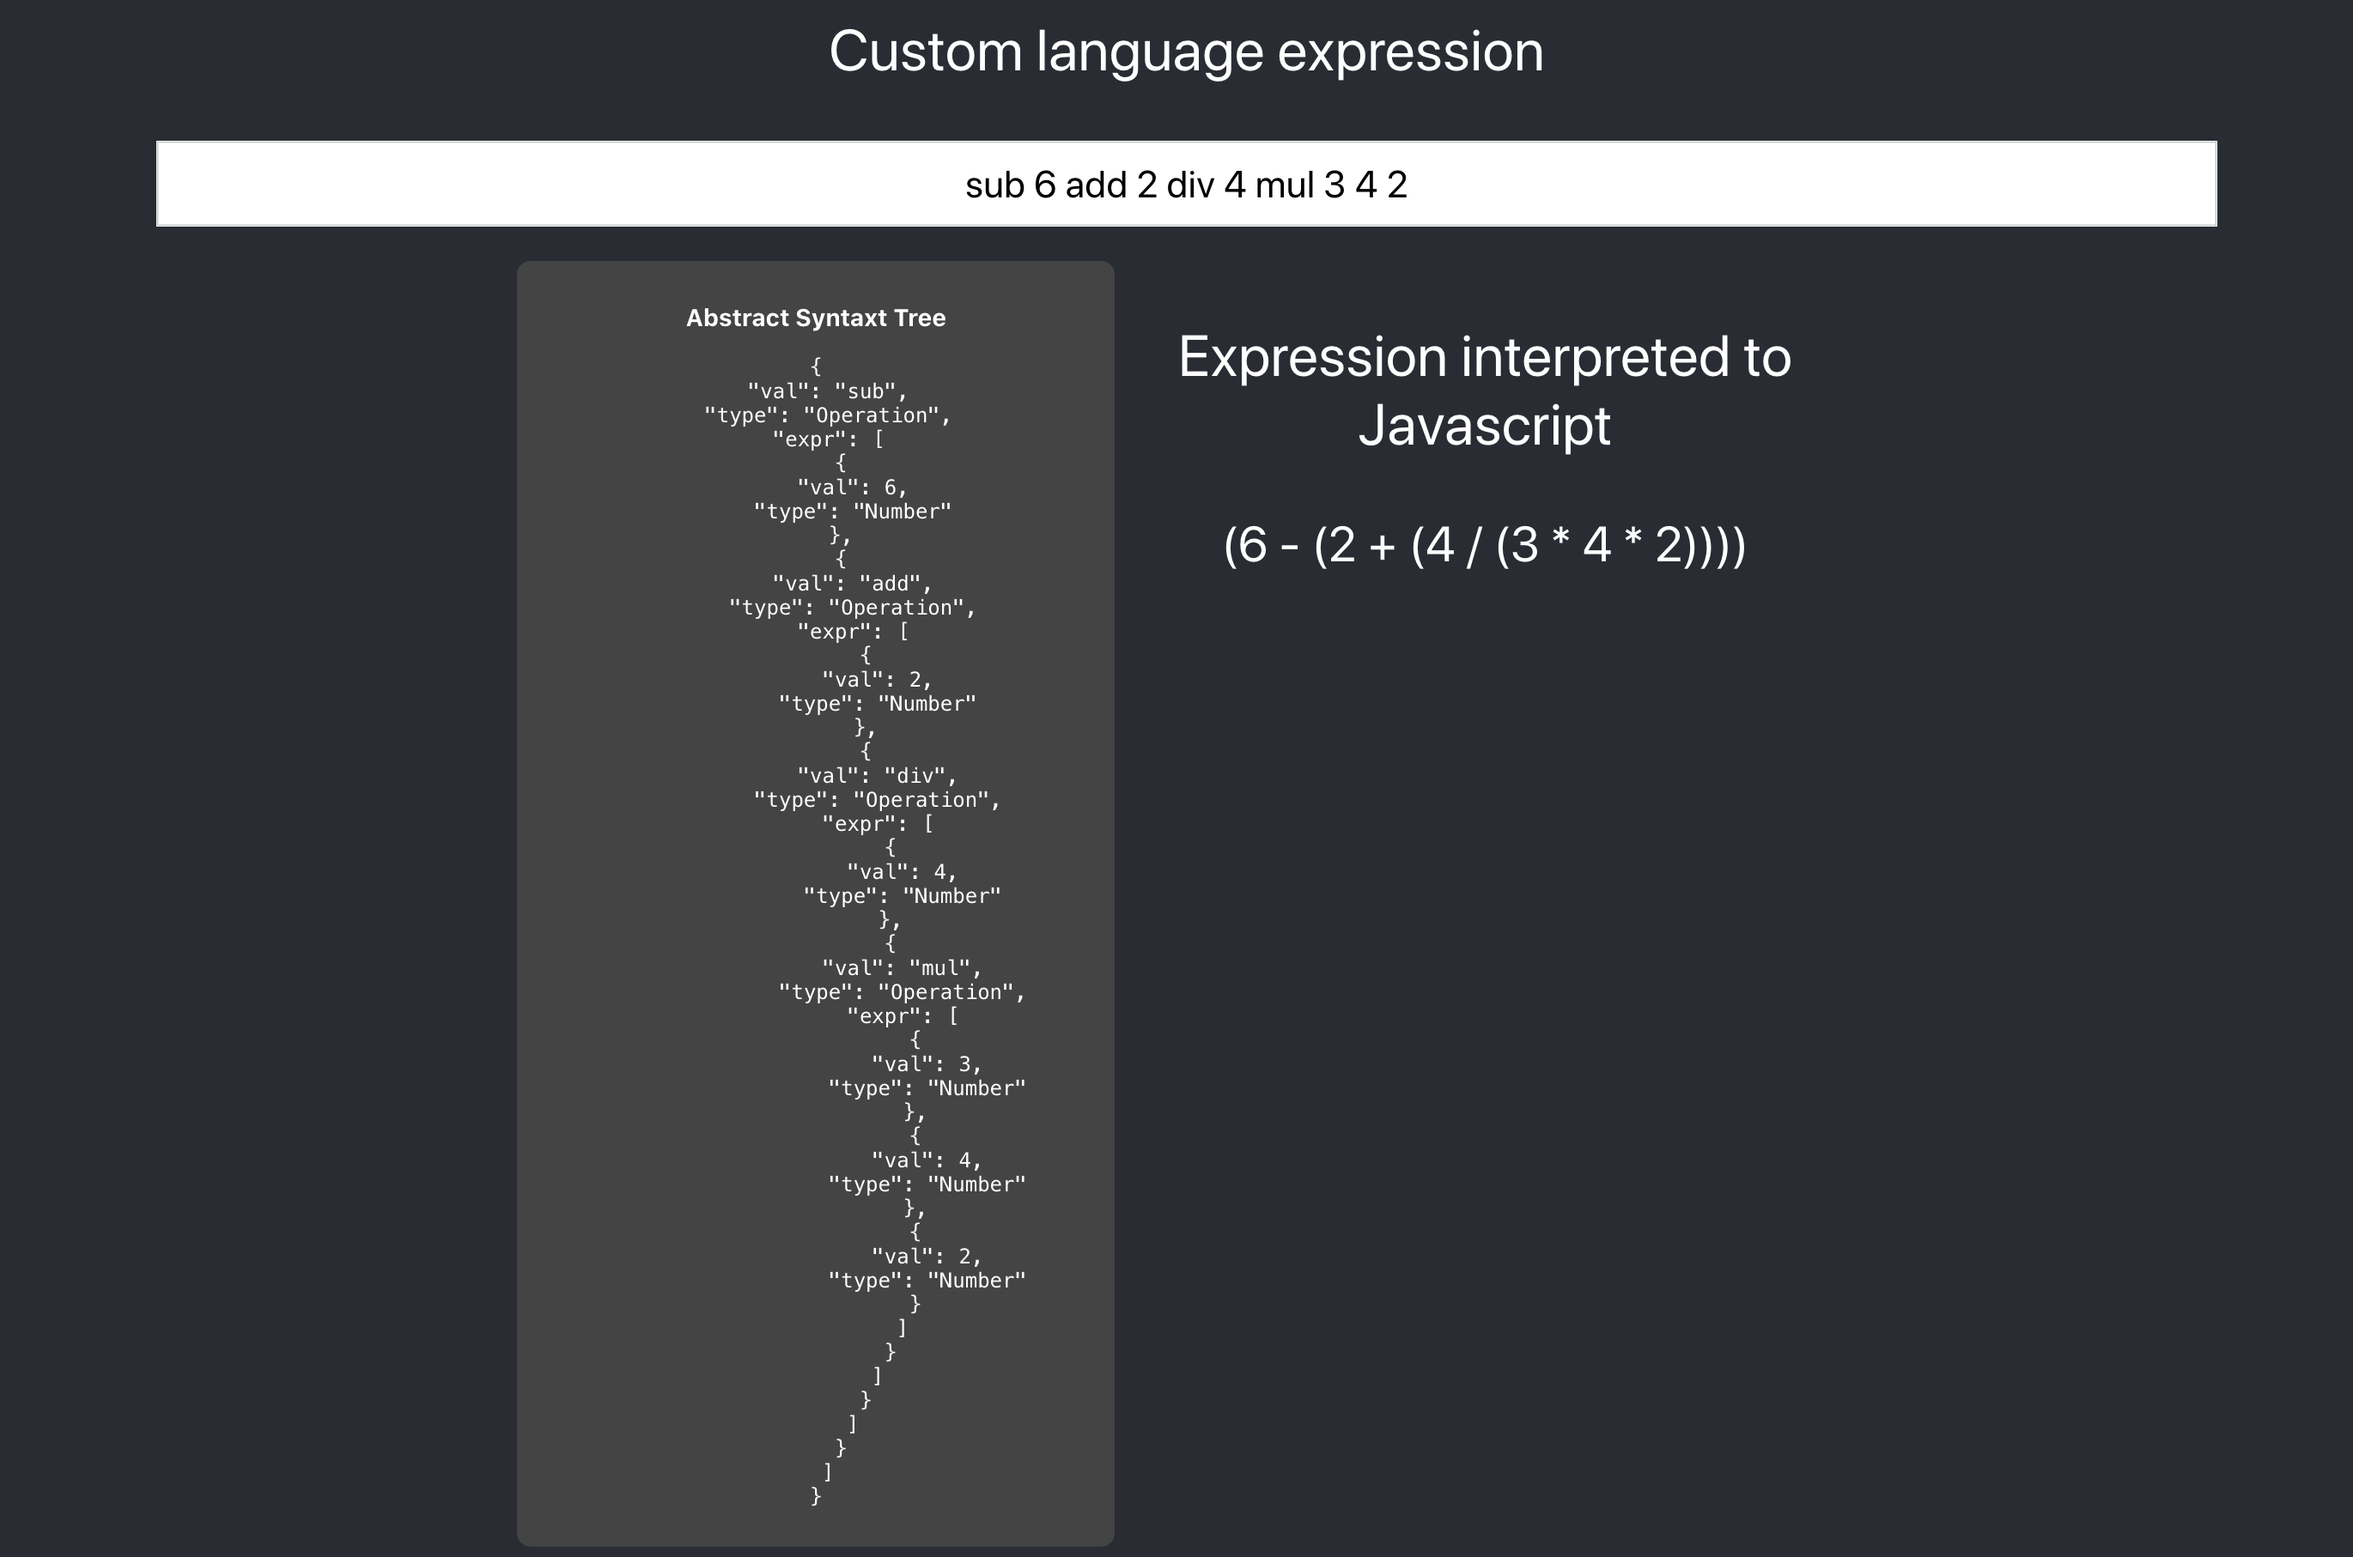
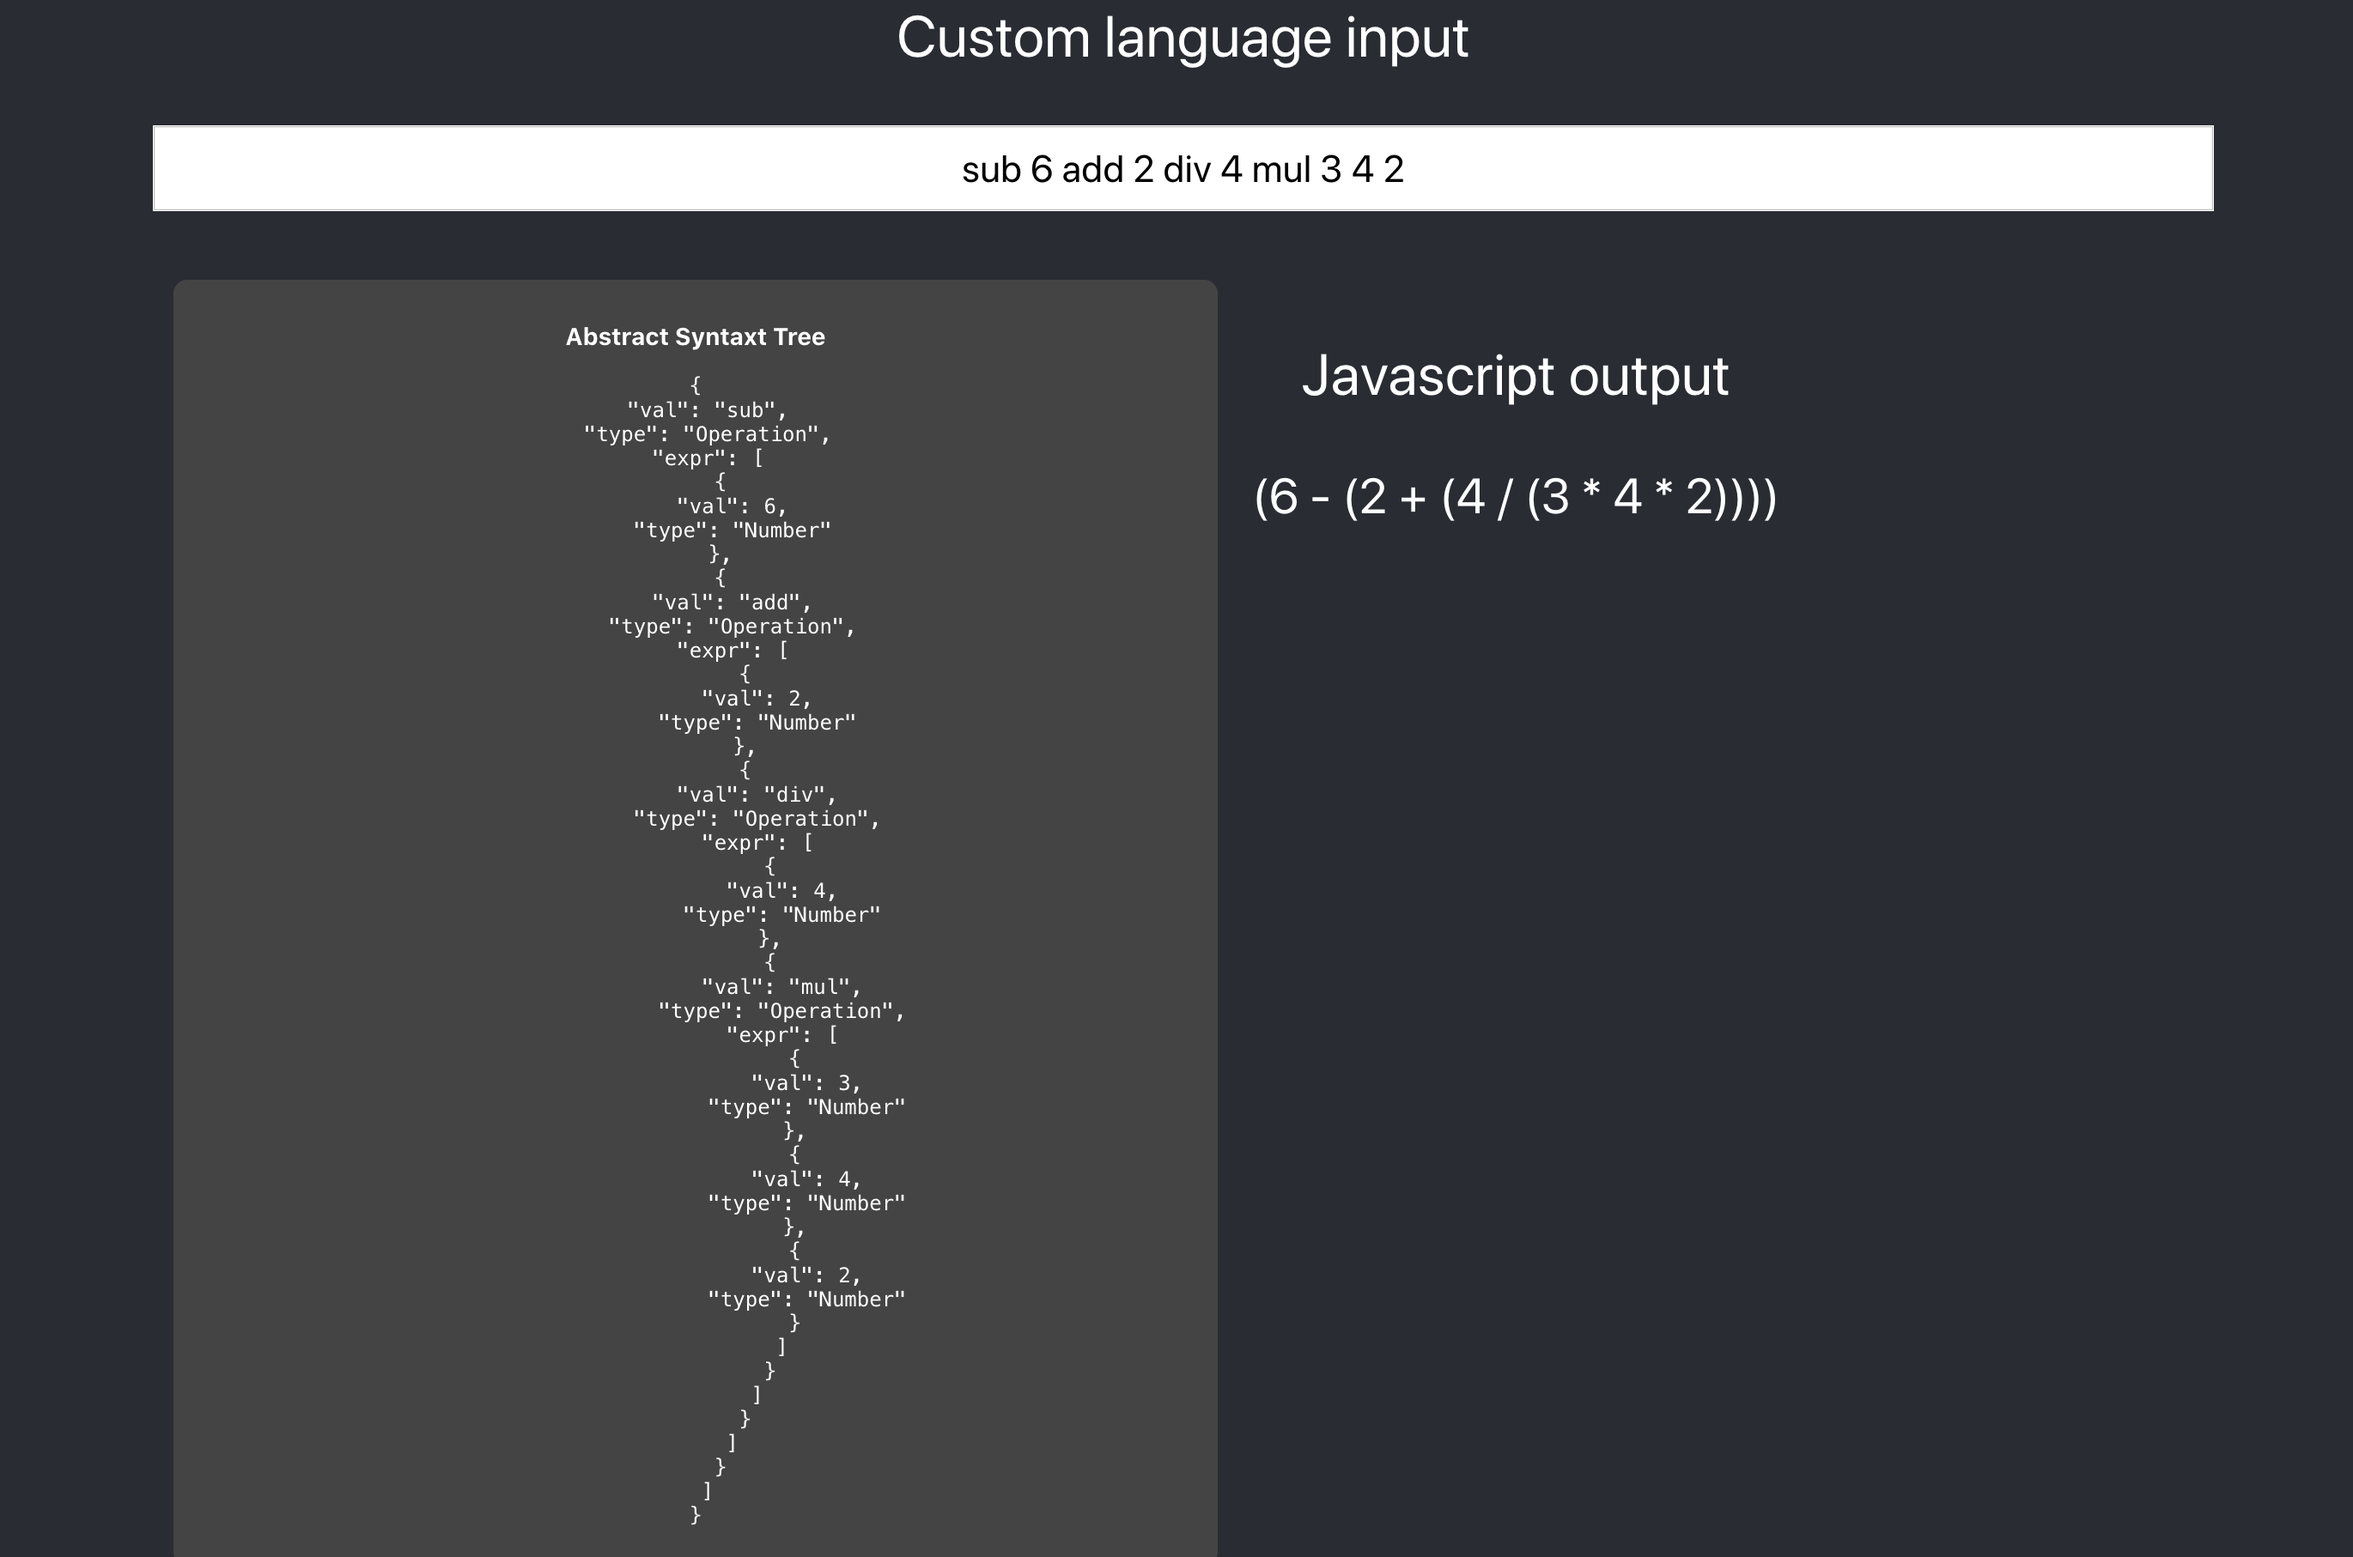
Add proper naming and styling

diff --git a/src/App.js b/src/App.js
@@ -10,7 +10,7 @@ function App() {
   const interpretedExpr = transpile(parse(lex(expr)));
   return (
     <div className='App'>
-      <h3>Custom language expression</h3>
+      <h3>Custom language input</h3>
       <input value={expr} onChange={(e) => setExpr(e.target.value)}></input>
       <div className='result'>
         <div className='ast'>
@@ -21,7 +21,7 @@ function App() {
           </pre>
         </div>
         <div>
-          <h3>Expression interpreted to Javascript</h3>
+          <h3>Javascript output</h3>
           <div>{interpretedExpr}</div>
         </div>
       </div>

diff --git a/src/App.css b/src/App.css
@@ -21,9 +21,12 @@ input {
   background-color: #444;
   border-radius: 8px;
   padding: 10px;
+  margin-right: 20px;
   font-size: 12px;
 }
 .result {
   display: flex;
   margin-top: 20px;
+  padding: 20px;
+  width: 70%;
 }
